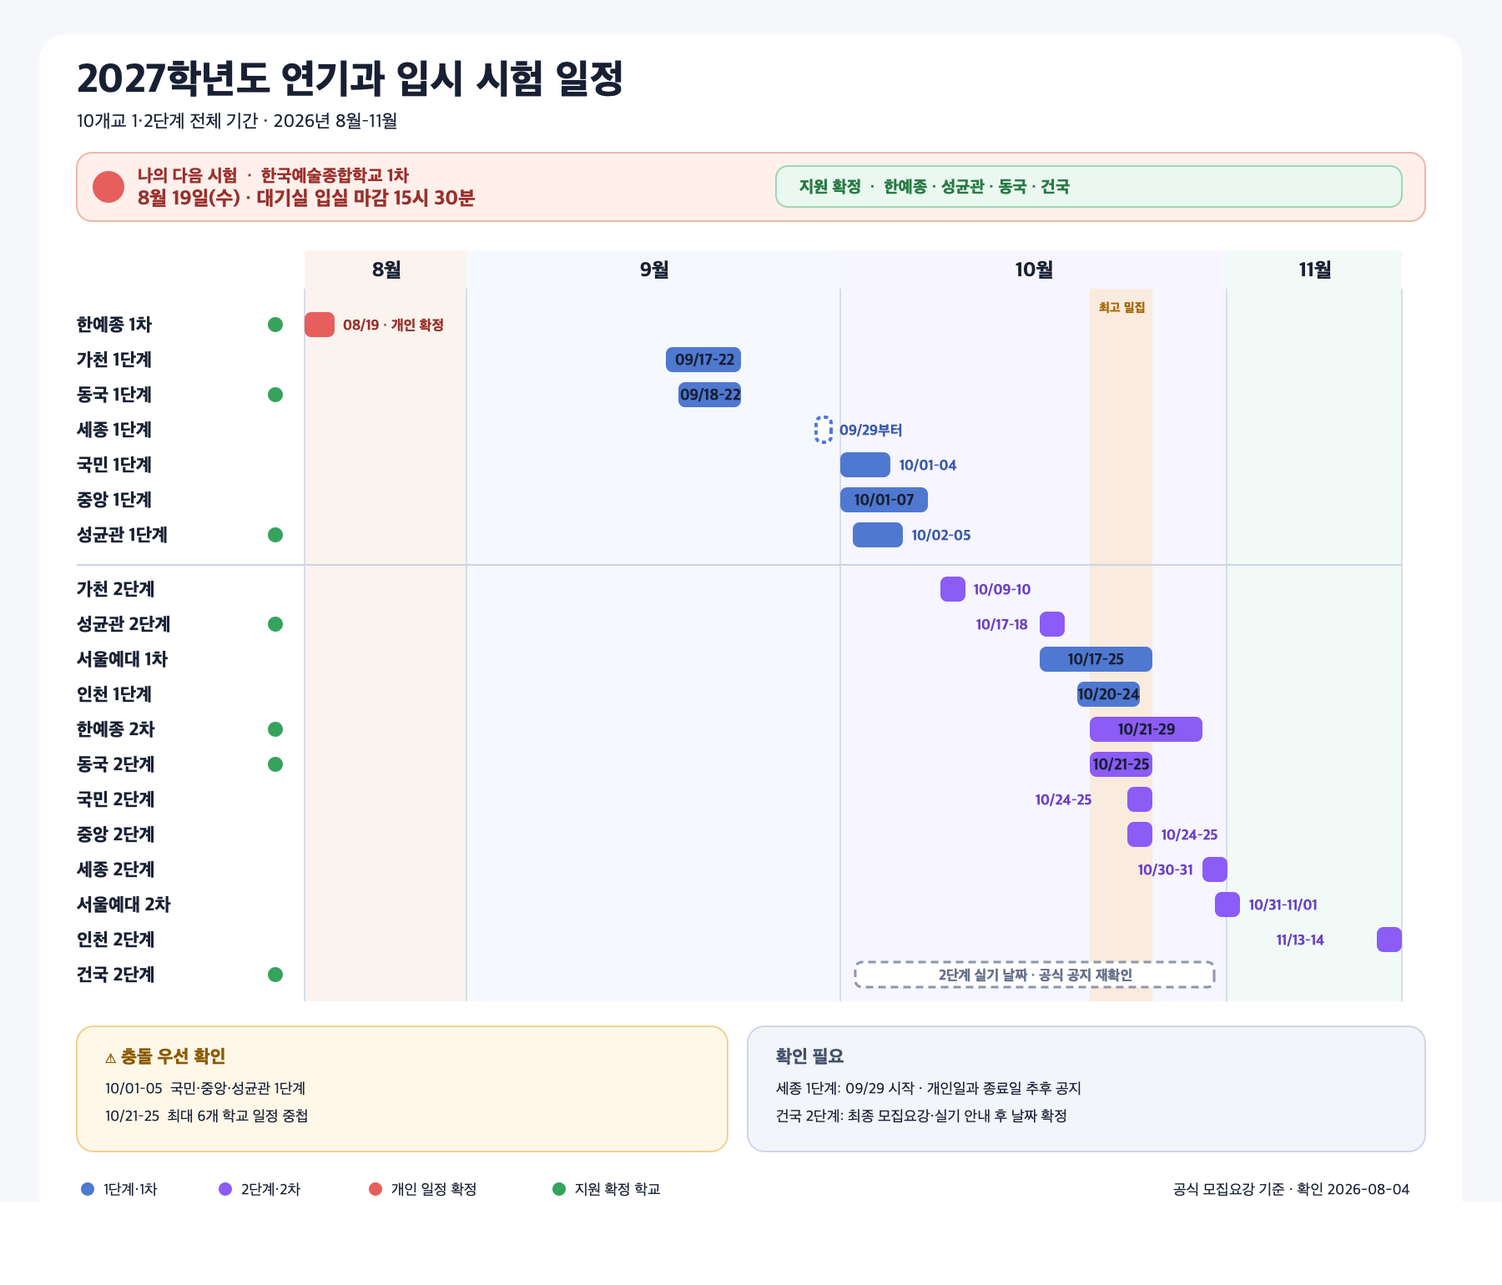
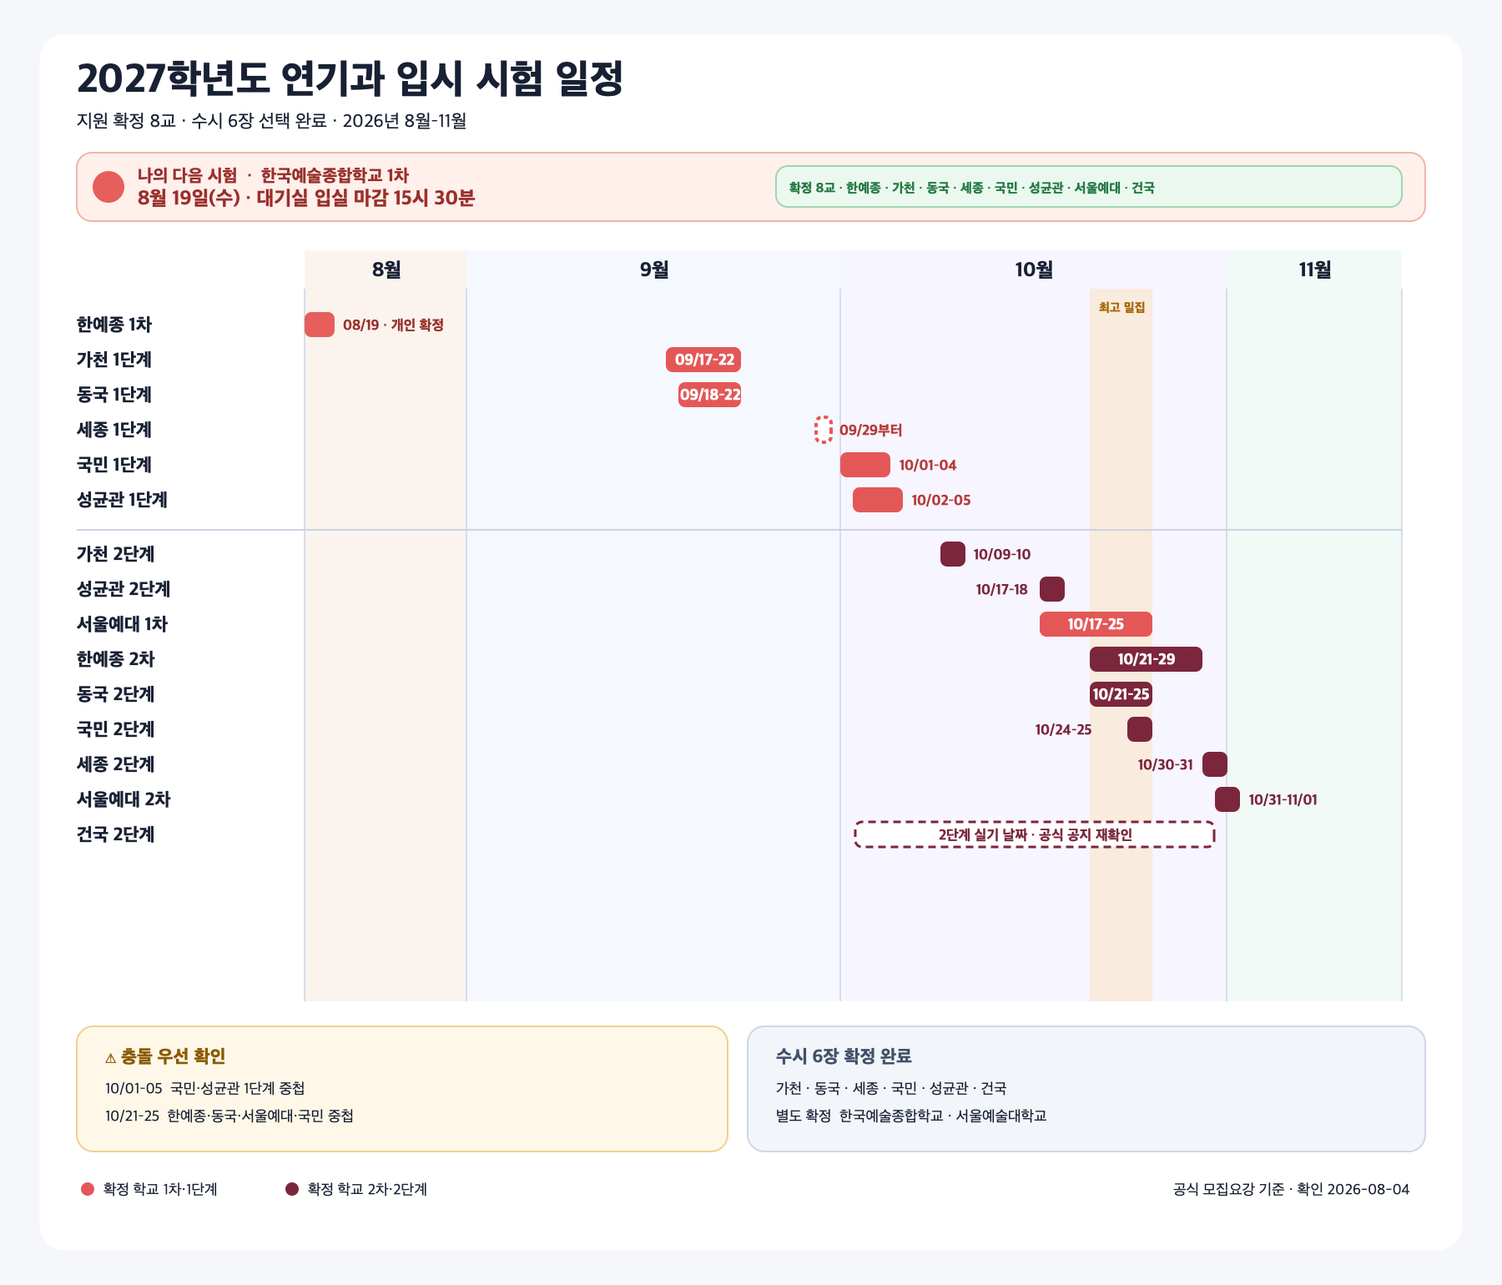
vault backup: 2026-08-04 19:28:11

diff --git a/정리/입시/2027 연기과 시험 일정 그래프.md b/정리/입시/2027 연기과 시험 일정 그래프.md
@@ -1,7 +1,7 @@
 ---
 type: dashboard
 admission_year: 2027
-scope: 연기과 입시 시험 일정 9개교
+scope: 연기과 입시 시험 일정 8개교
 verified: 2026-08-04
 status: 공식 모집요강 기준, 개인 고사시간·정정 공지 재확인 필요
 tags: [입시/연기, 입시/일정, 2027학년도]
@@ -13,16 +13,16 @@ tags: [입시/연기, 입시/일정, 2027학년도]
 
 ![[2027 연기과 이미지/첨부/2027 연기과 시험 일정.png|1000]]
 
-> [!warning] 이미지 초안
-> 위 PNG에는 아직 중앙대학교와 이전 색상 체계가 남아 있다. 현재 판단 기준은 아래 Mermaid 그래프이며, 학교 선택을 마친 뒤 이미지를 다시 만든다.
+> [!tip] 이미지 색상
+> **빨강은 확정 학교 1차·1단계**, **버건디는 확정 학교 2차·2단계**다.
 
 > [!success] 지원 확정 학교
-> **한국예술종합학교 · 가천대학교 · 동국대학교 · 세종대학교 · 성균관대학교 · 서울예술대학교 · 건국대학교**  
+> **한국예술종합학교 · 가천대학교 · 동국대학교 · 세종대학교 · 국민대학교 · 성균관대학교 · 서울예술대학교 · 건국대학교**  
 > 이 표시는 지원 대상이 확정됐다는 뜻이며, 개인 고사일이나 합격이 확정됐다는 뜻은 아니다.
 
 > [!important] 수시 6장 선택 현황
-> **확정 5장:** 가천대학교 · 동국대학교 · 세종대학교 · 성균관대학교 · 건국대학교  
-> **남은 1장:** 국민대학교 ↔ 인천대학교 중 선택  
+> **확정 6장:** 가천대학교 · 동국대학교 · 세종대학교 · 국민대학교 · 성균관대학교 · 건국대학교  
+> **선택 완료:** 국민대학교로 확정, 인천대학교 제외  
 > **별도 확정:** 한국예술종합학교 · 서울예술대학교
 
 > [!tip] 이미지 활용
@@ -33,7 +33,7 @@ tags: [입시/연기, 입시/일정, 2027학년도]
 
 ## 전체 타임라인
 
-> **🔴 확정 학교 1차·1단계** · **🟤 확정 학교 2차·2단계** · **🔵 국민·인천 후보**  
+> **🔴 확정 학교 1차·1단계** · **🟤 확정 학교 2차·2단계**  
 > 건국대학교는 지원 확정이지만 2단계 실기일이 미확정이라 날짜 막대를 임의로 만들지 않았다.
 
 ```mermaid
@@ -50,27 +50,25 @@ gantt
     가천 1단계 · 지원 확정         :crit, gachon1, 2026-09-17, 2026-09-23
     동국 1단계 · 지원 확정         :crit, dongguk1, 2026-09-18, 2026-09-23
     세종 1단계 시작 · 지원 확정     :crit, sejong1, 2026-09-29, 1d
-    국민 1단계 · 마지막 1장 후보    :kookmin1, 2026-10-01, 2026-10-05
+    국민 1단계 · 지원 확정          :crit, kookmin1, 2026-10-01, 2026-10-05
     성균관 1단계 · 지원 확정       :crit, skku1, 2026-10-02, 2026-10-06
     서울예대 1차 · 지원 확정        :crit, seoularts1, 2026-10-17, 2026-10-26
-    인천 1단계 · 마지막 1장 후보    :inu1, 2026-10-20, 2026-10-25
 
     section 2단계·2차
     가천 2단계 · 지원 확정         :done, gachon2, 2026-10-09, 2026-10-11
     성균관 2단계 · 지원 확정       :done, skku2, 2026-10-17, 2026-10-19
     한예종 2차 · 지원 확정         :done, karts2, 2026-10-21, 2026-10-30
     동국 2단계 · 지원 확정         :done, dongguk2, 2026-10-21, 2026-10-26
-    국민 2단계 · 마지막 1장 후보    :kookmin2, 2026-10-24, 2026-10-26
+    국민 2단계 · 지원 확정          :done, kookmin2, 2026-10-24, 2026-10-26
     세종 2단계 · 지원 확정          :done, sejong2, 2026-10-30, 2026-11-01
     서울예대 2차 · 지원 확정        :done, seoularts2, 2026-10-31, 2026-11-02
-    인천 2단계 · 마지막 1장 후보    :inu2, 2026-11-13, 2026-11-15
 ```
 
 > [!warning] 🟤 건국대학교 2단계 · 지원 확정
 > 1단계는 학생부 선발이며, 2단계 실기일은 공식 공지 확인 중이다. 날짜가 확인되는 즉시 버건디색 막대로 추가한다.
 
 > [!danger] 가장 붐비는 구간: 10월 21일~25일
-> 한예종 2차·동국 2단계·서울예대 1차와 인천 1단계가 겹치고, 국민을 선택하면 24~25일 국민 2단계도 겹친다. 마지막 1장 선택 후 충돌도를 다시 계산한다.
+> 한예종 2차·동국 2단계·서울예대 1차가 겹치고, 24~25일에는 국민 2단계까지 겹친다. 개인 고사일 발표 즉시 충돌 여부를 확인한다.
 
 ## 월별 압축 보기
 
@@ -82,13 +80,12 @@ gantt
 | 10월 | 10-01~10-05 | 국민 1단계·성균관 1단계 | 높음 |
 | 10월 | 10-09~10-10 | 가천 2단계 | 단독 |
 | 10월 | 10-17~10-18 | 성균관 2단계·서울예대 1차 | 높음 |
-| 10월 | **10-21~10-25** | 한예종 2차·동국 2단계·서울예대 1차 + 인천 1단계 또는 국민 2단계 | **최고** |
+| 10월 | **10-21~10-25** | 한예종 2차·동국 2단계·서울예대 1차·국민 2단계 | **최고** |
 | 10~11월 | 10-30~11-01 | 세종 2단계·서울예대 2차 | 높음 |
-| 11월 | 11-13~11-14 | 인천 2단계 | 단독 |
 
 ## 학교별 날짜표
 
-> `🟩 확정`은 실제 지원하기로 확정한 학교다. `🟦 후보`는 마지막 수시 1장을 두고 비교 중인 학교다.
+> `🟩 확정`은 실제 지원하기로 확정한 학교다.
 
 | 지원 상태 | 학교 | 1단계·1차 | 2단계·2차 | 개인 일정 확인·주의 |
 |---|---|---|---|---|
@@ -96,19 +93,18 @@ gantt
 | **🟩 확정** | **[[2027 연기과 이미지/학교별/가천대학교|가천대학교]]** | 09-17~09-22 | 10-09~10-10 | 1단계 고사장 09-14 확인 |
 | **🟩 확정** | **[[2027 연기과 이미지/학교별/동국대학교|동국대학교]]** | 09-18~09-22 | 10-21~10-25 | 고사 안내 09-16·10-19 확인 |
 | **🟩 확정** | **[[2027 연기과 이미지/학교별/세종대학교|세종대학교]]** | 09-29부터 | 10-30~10-31 | 1단계 개인일·종료일 09-22 공지 확인 |
-| **🟦 후보** | **[[2027 연기과 이미지/학교별/국민대학교|국민대학교]]** | 10-01~10-04 | 10-24~10-25 | 마지막 수시 1장 후보 · 고사 안내 09-22·10-20 확인 |
+| **🟩 확정** | **[[2027 연기과 이미지/학교별/국민대학교|국민대학교]]** | 10-01~10-04 | 10-24~10-25 | 고사 안내 09-22·10-20 확인 |
 | **🟩 확정** | **[[2027 연기과 이미지/학교별/성균관대학교|성균관대학교]]** | 10-02~10-05 | 10-17~10-18 | 개인 고사시간 확인 |
 | **🟩 확정** | **[[2027 연기과 이미지/학교별/서울예술대학교|서울예술대학교]]** | 10-17~10-25 | 10-31~11-01 | 1차 개인일은 10-12 16:00 이후 확인 |
-| **🟦 후보** | **[[2027 연기과 이미지/학교별/인천대학교|인천대학교]]** | 10-20~10-24 | 11-13~11-14 | 마지막 수시 1장 후보 · 고사 안내 10-07·11-11 확인 |
 | **🟩 확정** | **[[2027 연기과 이미지/학교별/건국대학교|건국대학교]]** | 학생부 선발, 실기 없음 | **최종 모집요강·고사 안내 재확인** | 날짜 확인 후 일정표에 반영 |
 
 ## 충돌 확인 체크리스트
 
 - [ ] 한예종 1차: **08-19 15:30 입실 마감** 기준으로 이동·식사·헤어 준비 역산
 - [ ] 09-17~09-22: 가천과 동국의 개인 고사일이 겹치는지 확인
-- [ ] 10-01~10-05: 국민을 선택할 경우 성균관과 개인 고사일이 겹치는지 확인
+- [ ] 10-01~10-05: 국민과 성균관의 개인 고사일이 겹치는지 확인
 - [ ] 10-17~10-18: 성균관 2단계와 서울예대 1차가 겹치는지 확인
-- [ ] 10-21~10-25: 국민·인천 중 선택 결과를 반영해 개인 고사일과 이동시간 확정
+- [ ] 10-21~10-25: 한예종·동국·서울예대·국민의 개인 고사일과 이동시간 확정
 - [ ] 10-30~11-01: 세종 2단계와 서울예대 2차가 겹치는지 확인
 - [ ] 모든 학교의 수험표·입실 마감·고사장 변경 공지를 전날 다시 확인
 
@@ -127,5 +123,4 @@ gantt
 - [국민대학교 2027학년도 수시모집요강](https://admission.kookmin.ac.kr/nonschedule/notice.php?ctype=view&no=1070&page=1), 확인 2026-08-04
 - [성균관대학교 2027학년도 수시모집요강](https://admission.skku.edu/upload/guide/20260529115520H43SMR.pdf), 확인 2026-08-04
 - [서울예술대학교 2027학년도 수시 전문학사학위과정 모집요강](https://www.seoularts.ac.kr/web/cop/bbsWeb/selectBoardDetail.do?bbsId=BBSMSTR_000000000702&nttId=242297&nttIds=0), 확인 2026-08-04
-- [인천대학교 2027학년도 수시모집요강](https://admission.inu.ac.kr/file/download.do?sfn=20260608112433651_2027%ed%95%99%eb%85%84%eb%8f%84+%ec%9d%b8%ec%b2%9c%eb%8c%80%ed%95%99%ea%b5%90+%ec%88%98%ec%8b%9c%eb%AA%A8%EC%A7%91%EC%9A%94%EA%B0%95.pdf&ofn=2027%ed%95%99%eb%85%84%eb%8f%84+%ec%9d%b8%ec%b2%9c%eb%8c%80%ed%95%99%ea%B5%90+%ec%88%98%ec%8b%9c%eb%AA%A8%EC%A7%91%EC%9A%94%EA%B0%95.pdf), 확인 2026-08-04
 - [건국대학교 2027학년도 입학전형 시행계획](https://enter.konkuk.ac.kr/file/pdfDown.pdf?ofn=%5B%EC%B5%9C%EC%A2%85_%EB%86%8D%EC%96%B4%EC%B4%8C%EB%B0%98%EC%98%81%5D+2027+%EC%9E%85%ED%95%99%EC%A0%84%ED%98%95%EC%8B%9C%ED%96%89%EA%B3%84%ED%9A%8D_250714.pdf&sfn=20250714115345568_6455.pdf), 확인 2026-08-04

diff --git a/정리/입시/2027 연기과 지정작품 총정리.md b/정리/입시/2027 연기과 지정작품 총정리.md
@@ -1,7 +1,7 @@
 ---
 type: dashboard
 admission_year: 2027
-scope: 연기과 지정작품 9개교
+scope: 연기과 지정작품 8개교
 verified: 2026-08-04
 status: 공식 모집요강 확인, 추후 실기 공지 재확인
 tags: [입시/연기, 입시/지정작품, 2027학년도]
@@ -14,7 +14,7 @@ tags: [입시/연기, 입시/지정작품, 2027학년도]
 > [!important] 분류 원칙
 > `지정작품`·`지정연기`·`당일대사`는 같은 말이 아니다. 작품명 또는 작가 목록이 사전에 공개된 경우만 **사전 공개 지정범위**로 분류한다. 고사장에서 텍스트를 받는 방식은 **당일 제시형**, 지원자가 고르는 방식은 **자유작품**으로 분리한다.
 
-## 지원 대상 9개교 한눈에 보기
+## 지원 대상 8개교 한눈에 보기
 
 | 학교 | 단계 | 유형 | 사전 준비 범위 | 상태·핵심 행동 |
 |---|---|---|---|---|
@@ -24,7 +24,6 @@ tags: [입시/연기, 입시/지정작품, 2027학년도]
 | [[2027 연기과 이미지/학교별/세종대학교|세종]] | 2단계 | **사전 공개 작품 7편** | 7편 중 역할·장면 선택 | **공식 확정** · 즉흥연기는 별도 당일 배포 |
 | [[2027 연기과 이미지/학교별/국민대학교|국민]] | 1단계 | **당일 배포 지정연기** | 시험시간 전 문제를 받아 연습 | **공식 확정** · 작품명 사전 공개 없음 |
 | [[2027 연기과 이미지/학교별/국민대학교|국민]] | 2단계 | **사전 공개 지정희곡 5편** | 5편 중 1편의 독백 선택 | **공식 확정** · 1분 30초 내외 |
-| [[2027 연기과 이미지/학교별/인천대학교|인천]] | 2단계 | **당일 지정대사 + 사전 공개 작품 6편** | 당일 지정연기와 6편 중 택1 자유연기를 모두 실시 | **공식 확정** · 각각 2분 내외 |
 | [[2027 연기과 이미지/학교별/성균관대학교|성균관]] | 2단계 | **당일대사** | 시험 당일 주어지는 대사를 실연 | **공식 확정** · 사전 작품명 없음 |
 | [[2027 연기과 이미지/학교별/서울예술대학교|서울예대 연기]] | 1차·2차 | **당일 제시형** | 1차 텍스트·2차 워크숍 과제를 당일 제시 | **공식 확정** · ‘연극전공’ 지정작품과 혼동 금지 |
 | [[2027 연기과 이미지/학교별/건국대학교|건국]] | 2단계 | **자유작품** | 자유연기 3분 + 특기 1분 | **지정목록 없음** · 최종 실기 안내 재확인 |
@@ -116,20 +115,6 @@ tags: [입시/연기, 입시/지정작품, 2027학년도]
 - 1단계 지정연기는 시험시간 전에 문제를 배포하는 방식이라 사전 작품 목록이 없다.
 - 자유연기 독백은 희곡 대사만 인정하며 영화·드라마 대사는 심사 대상에 포함하지 않는다.
 
-### 인천대학교 공연예술학과
-
-| 작품 | 작가 |
-|---|---|
-| 《동승》 | 함세덕 |
-| 《푸르른날에》 | 정경진 |
-| 《야끼니꾸 드래곤》 | 정의신 |
-| 《한여름밤의 꿈》 | 윌리엄 셰익스피어 |
-| 《죽음 혹은 아님》 | 세르지 벨벨 |
-| 《눈뜨는 봄》 | 프랑크 베데킨트 |
-
-- 2단계 자유연기는 6편 중 역할과 장면을 택1해 **2분 내외**로 준비한다.
-- 같은 2단계의 지정연기는 고사장에서 별도 지정대사를 받아 **2분 내외**로 수행한다.
-
 ## 사전 작품 목록이 없는 학교
 
 ### 성균관대학교 — 연기예술학과
@@ -157,10 +142,9 @@ tags: [입시/연기, 입시/지정작품, 2027학년도]
 
 | 묶음 | 해당 학교 | 활용 |
 |---|---|---|
-| 《동승》 | 가천·인천 | 한 번 정독하고 학교별 제한시간에 맞춰 장면을 각각 편집 |
 | 《오이디푸스 왕》 | 한예종·세종 | 한예종 추가 희곡 독백과 세종 지정연기 후보를 함께 검토 |
 | 《스카팽/스카펭의 간계》 | 한예종·세종 | 동일 작품의 공식 표기 차이. 번역본·인물명 차이 기록 |
-| 셰익스피어 | 한예종·가천·동국·세종·국민·인천 | 비극·희극 장면을 나눠 인물 관계와 운문 리듬 비교 |
+| 셰익스피어 | 한예종·가천·동국·세종·국민 | 비극·희극 장면을 나눠 인물 관계와 운문 리듬 비교 |
 | 체홉 | 가천·동국·세종 | 《갈매기》·《바냐 아저씨》와 다른 작품까지 작가 세계관 연결 |
 | 입센 | 동국·세종 | 《인형의 집》을 중심으로 인물의 목적과 사회적 조건 정리 |
 | 아서 밀러 | 한예종·동국 | 《시련》 구술 대비와 동국 지정작가 장면 후보를 연결 |
@@ -174,7 +158,6 @@ tags: [입시/연기, 입시/지정작품, 2027학년도]
 | 동국 |  |  |  | 2분 | [ ] | [ ] | [ ] |
 | 세종 |  |  |  | 별도 총 5분 | [ ] | [ ] | [ ] |
 | 국민 |  |  |  | 1분 30초 | [ ] | [ ] | [ ] |
-| 인천 |  |  |  | 2분 | [ ] | [ ] | [ ] |
 
 ## 공식 출처
 
@@ -183,7 +166,6 @@ tags: [입시/연기, 입시/지정작품, 2027학년도]
 - [동국대학교 2027학년도 수시모집요강](https://ipsi.dongguk.edu/upload/file/20260601115911UVEHWG.PDF), pp.60–61, 확인 2026-08-04
 - [세종대학교 2027학년도 수시모집요강 공지](https://ipsi.sejong.ac.kr/sub_page/sub5/0107_view.asp?B_CATEGORY=0&B_CODE=BOARD_1455878015&IDX=1128&gotopage=1&search_category=&searchstring=&tab1=5), pp.54–55, 확인 2026-08-04
 - [국민대학교 2027학년도 수시모집요강](https://admission.kookmin.ac.kr/nonschedule/notice.php?ctype=view&no=1070&page=1), p.58, 확인 2026-08-04
-- [인천대학교 2027학년도 수시모집요강](https://admission.inu.ac.kr/file/download.do?sfn=20260608112433651_2027%ed%95%99%eb%85%84%eb%8f%84+%ec%9d%b8%ec%b2%9c%eb%8c%80%ed%95%99%ea%b5%90+%ec%88%98%ec%8b%9c%eb%AA%A8%EC%A7%91%EC%9A%94%EA%B0%95.pdf&ofn=2027%ed%95%99%eb%85%84%eb%8f%84+%ec%9d%b8%ec%b2%9c%eb%8c%80%ed%95%99%ea%B5%90+%ec%88%98%ec%8b%9c%eb%AA%A8%EC%A7%91%EC%9A%94%EA%B0%95.pdf), p.41, 확인 2026-08-04
 - [성균관대학교 2027학년도 수시모집요강](https://admission.skku.edu/upload/guide/20260529115520H43SMR.pdf), p.49, 확인 2026-08-04
 - [서울예술대학교 2027학년도 수시 전문학사학위과정 모집요강](https://www.seoularts.ac.kr/web/cop/bbsWeb/selectBoardDetail.do?bbsId=BBSMSTR_000000000702&nttId=242297&nttIds=0), 연극전공 p.49·연기전공 p.50, 확인 2026-08-04
 - [건국대학교 2027학년도 입학전형 시행계획](https://enter.konkuk.ac.kr/file/pdfDown.pdf?ofn=%5B%EC%B5%9C%EC%A2%85_%EB%86%8D%EC%96%B4%EC%B4%8C%EB%B0%98%EC%98%81%5D+2027+%EC%9E%85%ED%95%99%EC%A0%84%ED%98%95%EC%8B%9C%ED%96%89%EA%B3%84%ED%9A%8D_250714.pdf&sfn=20250714115345568_6455.pdf), p.31, 확인 2026-08-04

diff --git a/정리/입시/의상 및 헤어 등 이미지.md b/정리/입시/의상 및 헤어 등 이미지.md
@@ -16,17 +16,17 @@ tags:
 
 ## 지금 가장 먼저 볼 것
 
-- 지원 확정 학교: **한국예술종합학교 · 가천대학교 · 동국대학교 · 세종대학교 · 성균관대학교 · 서울예술대학교 · 건국대학교**
-- 수시 6장: **가천 · 동국 · 세종 · 성균관 · 건국 5장 확정**, 마지막 1장은 **국민 ↔ 인천** 중 선택
+- 지원 확정 학교: **한국예술종합학교 · 가천대학교 · 동국대학교 · 세종대학교 · 국민대학교 · 성균관대학교 · 서울예술대학교 · 건국대학교**
+- 수시 6장: **가천 · 동국 · 세종 · 국민 · 성균관 · 건국**으로 확정 완료
 - 개인 상세 설계: [[2027 연기과 이미지/본인 이미지 설계|헤어·메이크업·넥라인·핏 종합 설계]]
-- 시험 일정 그래프: [[2027 연기과 시험 일정 그래프|9개교 시험일·겹침 한눈에 보기]]
+- 시험 일정 그래프: [[2027 연기과 시험 일정 그래프|8개교 시험일·겹침 한눈에 보기]]
 - 지정작품 총괄: [[2027 연기과 지정작품 총정리|지원 대상 지정작품·지정대사 한눈에 보기]]
 - 다음 시험: **한국예술종합학교 연극원 연기과 1차**, **2026-08-19(수), 대기실 입실 마감 15:30**
 - 준비 복장: **무채색·무늬 없는 티셔츠와 바지**, 화장 금지
 - 신발·액세서리 상세는 2027 시험시간표/수험생 유의사항을 즉시 재확인
 - 2026 공식 유의사항에서는 평평한 무용화 또는 맨발만 허용했고 일반 신발과 장신구를 금지했으므로, 2027 공지 확인 전까지 동일하게 준비하는 것이 안전하다.
 
-## 9개교 규정 비교
+## 8개교 규정 비교
 
 | 학교·단계 | 의상 | 신발 | 헤어 | 메이크업 | 액세서리 | 상태 / 다음 확인 |
 |---|---|---|---|---|---|---|
@@ -37,7 +37,6 @@ tags:
 | [[2027 연기과 이미지/학교별/국민대학교|국민]] 1·2단계 | 검정 상·하의 또는 흰 상의+검정 하의만 | 공식 언급 없음 | 단정, 세팅 금지 | 최소 화장 가능하나 비권장 | 공식 언급 없음 | 공식 확정 + 09-22 공지 확인 |
 | [[2027 연기과 이미지/학교별/성균관대학교|성균관]] 1·2단계 | 특수의상 금지, 일상복·연습복 가능 | 맨발·재즈화 가능, 굽·부츠 금지 | 과도한 헤어 금지 | 기본만 가능, 과도한 화장 금지 | 장신구 금지 | 공식 확정 |
 | [[2027 연기과 이미지/학교별/건국대학교|건국]] 2단계 | 공식 언급 없음 | 공식 언급 없음 | 공식 언급 없음 | 공식 언급 없음 | 공식 언급 없음 | 최종 실기 유의사항 확인 필요 |
-| [[2027 연기과 이미지/학교별/인천대학교|인천]] 1·2단계 | 검정·흰색·회색의 단순한 연습복 | 공식 언급 없음 | 공식 언급 없음 | 금지 | 공식 언급 없음 | 공식 확정 + 10-07 공지 확인 |
 | [[2027 연기과 이미지/학교별/서울예술대학교|서울예대]] 1·2차 | 별도 제한 외 자율 | 별도 제한 외 자율 | 얼굴 전면 노출 | 별도 제한 외 자율 | 서클·컬러렌즈 금지 | 공식 확정 |
 
 ## 시험 일정순 준비 현황
@@ -48,11 +47,10 @@ tags:
 | 2 | 가천 1단계 | 09-17~09-22 | 규정 확정 | 09-14 고사장 확인 |
 | 3 | 동국 1단계 | 09-18~09-22 | 세부 복장 미공개 | 09-16 고사장 안내 확인 |
 | 4 | 세종 1단계 | 09-29~ | 규정 확정 | 09-22 수험생 유의사항 확인 |
-| 5 | 국민 1단계 | 10-01~10-04 | 마지막 1장 후보 | 09-22 고사장 안내 확인 |
+| 5 | 국민 1단계 | 10-01~10-04 | 지원 확정·규정 확정 | 09-22 고사장 안내 확인 |
 | 6 | 성균관 1단계 | 10-02~10-05 | 규정 확정 | 개인 고사시간 확인 |
 | 7 | 서울예대 1차 | 10-17~10-25 | 규정 확정 | 10-12 이후 개인 고사일 확인 |
-| 8 | 인천 1단계 | 10-20~10-24 | 마지막 1장 후보 | 10-07 고사장 안내 확인 |
-| 9 | 건국 2단계 실기 | 최종 공지 확인 | 세부 복장 미공개 | 최종 모집요강·실기 안내 확인 |
+| 8 | 건국 2단계 실기 | 최종 공지 확인 | 세부 복장 미공개 | 최종 모집요강·실기 안내 확인 |
 
 ## 본인용 기본 이미지 전략
 
@@ -91,7 +89,7 @@ tags:
 
 ### 학교별 최소 변경
 
-- 한예종·인천: 회색/검정 무지 상의 + 검정 무지 바지. 화장하지 않는다.
+- 한예종: 회색/검정 무지 상의 + 검정 무지 바지. 화장하지 않는다.
 - 국민: 흰 상의+검정 하의 또는 올블랙 중 리허설 영상에서 얼굴이 더 잘 사는 조합. 헤어 제품을 이용한 세팅은 하지 않는다.
 - 세종: 기본 의상 유지, 고사장에서는 신발을 벗는다.
 - 성균관: 기본 연습복 + 맨발 또는 재즈화. 장신구 전부 제거.
